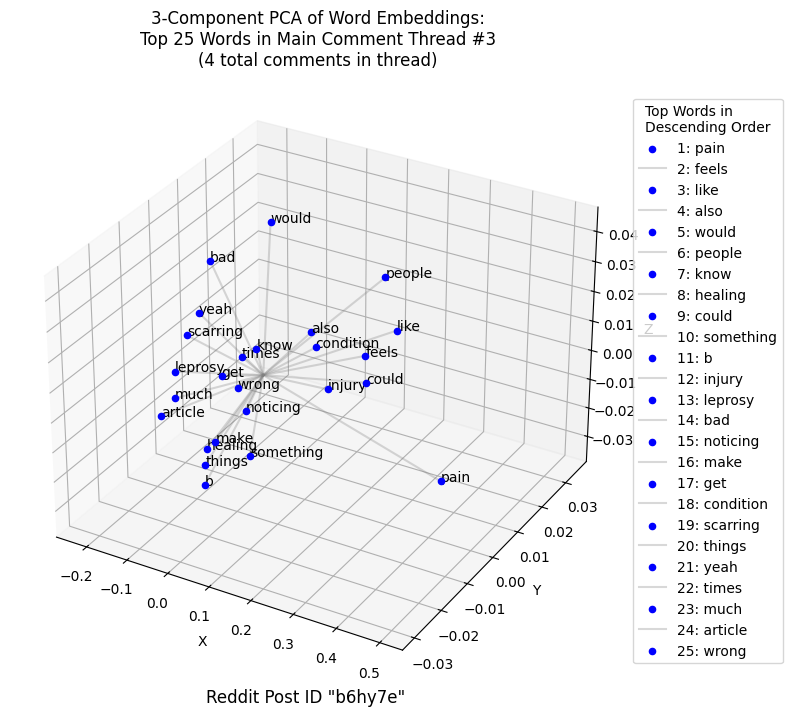
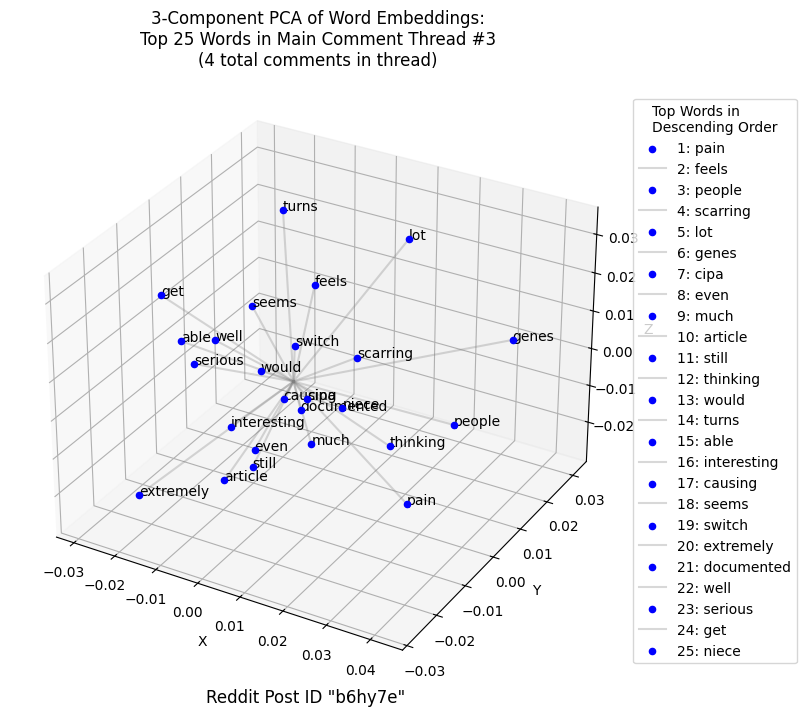
fixed embeddings plot title strings

Changed region(s): [[0.0606, 0.1229, 1.0, 0.9832], [0.1818, 0.0, 0.6364, 0.0922], [0.2727, 0.1844, 0.303, 0.2151]]

diff --git a/praw_functions.py b/praw_functions.py
@@ -28,12 +28,10 @@ print('Loading BART Tokenizer ...')
 TOKENIZER = AutoTokenizer.from_pretrained("Mr-Vicky-01/Bart-Finetuned-conversational-summarization")
 # TOKENIZER = BartTokenizer.from_pretrained("sshleifer/distilbart-cnn-12-6")
 print('Loading BART Model ...')
-MODEL = AutoModelForSeq2SeqLM.from_pretrained("Mr-Vicky-01/Bart-Finetuned-conversational-summarization")
-
-
 # https://huggingface.co/Mr-Vicky-01/Bart-Finetuned-conversational-summarization
-# MODEL = BartForConditionalGeneration.from_pretrained("sshleifer/distilbart-cnn-12-6")
+MODEL = AutoModelForSeq2SeqLM.from_pretrained("Mr-Vicky-01/Bart-Finetuned-conversational-summarization")
 # https://huggingface.co/sshleifer/distilbart-cnn-12-6
+# MODEL = BartForConditionalGeneration.from_pretrained("sshleifer/distilbart-cnn-12-6")
 
 
 def initialize_praw():
@@ -298,28 +296,12 @@ def top_word_percentage(top_words):
     return len(thread_top_words) / len(top_words)
 
 
-def data_pie_chart(filtered_thread_nums, all_thread_comment_sizes, reddit_post):
-    comment_sum = sum(all_thread_comment_sizes)
-    labels = [
-        'Main Thread #{0}:\n{1:.2f}%, {2} comments'.format(num, 100 * size / comment_sum, size)
-        for num, size in zip(filtered_thread_nums, all_thread_comment_sizes)
-    ]
-    pie = plt.pie(all_thread_comment_sizes)
-    legend = plt.legend(pie[0], labels, bbox_to_anchor=(1.15, 0.5), loc="center right", fontsize=10,
-                        bbox_transform=plt.gcf().transFigure)
-    plt.title('Filtered Main Comment Threads,\n'
-              'Contributions to the Dataset ({} total comments)'.format(comment_sum))
-    plt.savefig(os.getcwd() + '/code_output/Post {}, Pie Chart.png'.format(reddit_post.id),
-                bbox_extra_artists=(legend,),
-                bbox_inches='tight')
-
-
 def upvote_stats_and_boxplot(reddit_post, reddit_thread):
     print('Filtering main comments by upvotes ...')
     upvote_list = []
     for index, main_comment in enumerate(reddit_thread):
         upvotes = tfx.COMMENT_UPVOTE_DICT[main_comment[0]]
-        if tfx.COMMENT_UPVOTE_DICT[main_comment[0]] >= ANTI_SKEW_UPV0TE_FILTER:
+        if tfx.COMMENT_UPVOTE_DICT[main_comment[0]] > ANTI_SKEW_UPV0TE_FILTER:
             upvote_list.append(upvotes)
     # mean = sum(upvote_list)/len(upvote_list)
     # variance = sum([((x - mean) ** 2) for x in upvote_list]) / len(upvote_list)
@@ -381,7 +363,7 @@ def create_plot_embeddings(w2v_model, index, reddit_post, num_comments):
         'Top {} Words in Main Comment Thread #{}\n'
         '({} total comments in thread)'.format(
             vector_count,
-            index + 1,
+            index,
             num_comments,
         )
     )
@@ -397,11 +379,27 @@ def create_plot_embeddings(w2v_model, index, reddit_post, num_comments):
         fontsize=12
     )
     plt.savefig(
-        os.getcwd() + '/code_output/Post {}, 3D Embedding Plot Main Thread {}.png'.format(reddit_post.id, index + 1),
+        os.getcwd() + '/code_output/Post {}, 3D Embedding Plot Main Thread {}.png'.format(reddit_post.id, index),
         bbox_extra_artists=(legend, caption),
         bbox_inches='tight'
     )
     plt.close()
+
+
+def data_pie_chart(filtered_thread_nums, all_thread_comment_sizes, reddit_post):
+    comment_sum = sum(all_thread_comment_sizes)
+    labels = [
+        'Main Thread #{0}:\n{1:.2f}%, {2} comments'.format(num, 100 * size / comment_sum, size)
+        for num, size in zip(filtered_thread_nums, all_thread_comment_sizes)
+    ]
+    pie = plt.pie(all_thread_comment_sizes)
+    legend = plt.legend(pie[0], labels, bbox_to_anchor=(1.15, 0.5), loc="center right", fontsize=10,
+                        bbox_transform=plt.gcf().transFigure)
+    plt.title('Filtered Main Comment Threads,\n'
+              'Contributions to the Dataset ({} total comments)'.format(comment_sum))
+    plt.savefig(os.getcwd() + '/code_output/Post {}, Pie Chart.png'.format(reddit_post.id),
+                bbox_extra_artists=(legend,),
+                bbox_inches='tight')
 
 
 def generate_summary(input_string):

diff --git a/forum_summarize.py b/forum_summarize.py
@@ -54,7 +54,7 @@ pfx.COMMENT_DEPTH_FILTER = 5
 pfx.ANTI_SKEW_UPV0TE_FILTER = 5
 reddit_post, reddit_thread = pfx.create_dataset(science[2])
 pfx.comment_structure_manipulation(reddit_post, reddit_thread)
-entire_post_string = tfx.string_list_to_string(pfx.FILT_ALL_THREADS_PARAGRAPHS, reddit_post.title)
+entire_post_string = tfx.string_list_to_string(pfx.FILT_ALL_THREADS_PARAGRAPHS, reddit_post.title, end_append=True)
 entire_post_string += reddit_post.title
 entire_summary = pfx.generate_summary(entire_post_string)
 evaluate(entire_summary, reddit_post.title)

diff --git a/text_functions.py b/text_functions.py
@@ -68,7 +68,7 @@ def string_list_to_paragraph(transformed_comment, comment_paragraph):
 def string_list_to_string(string_list, list_as_string, end_append=False):
     temp = None
     if end_append:
-        temp = list_as_string.copy()
+        temp = list_as_string
         list_as_string = ''
     for string_item in string_list:
         list_as_string += string_item
